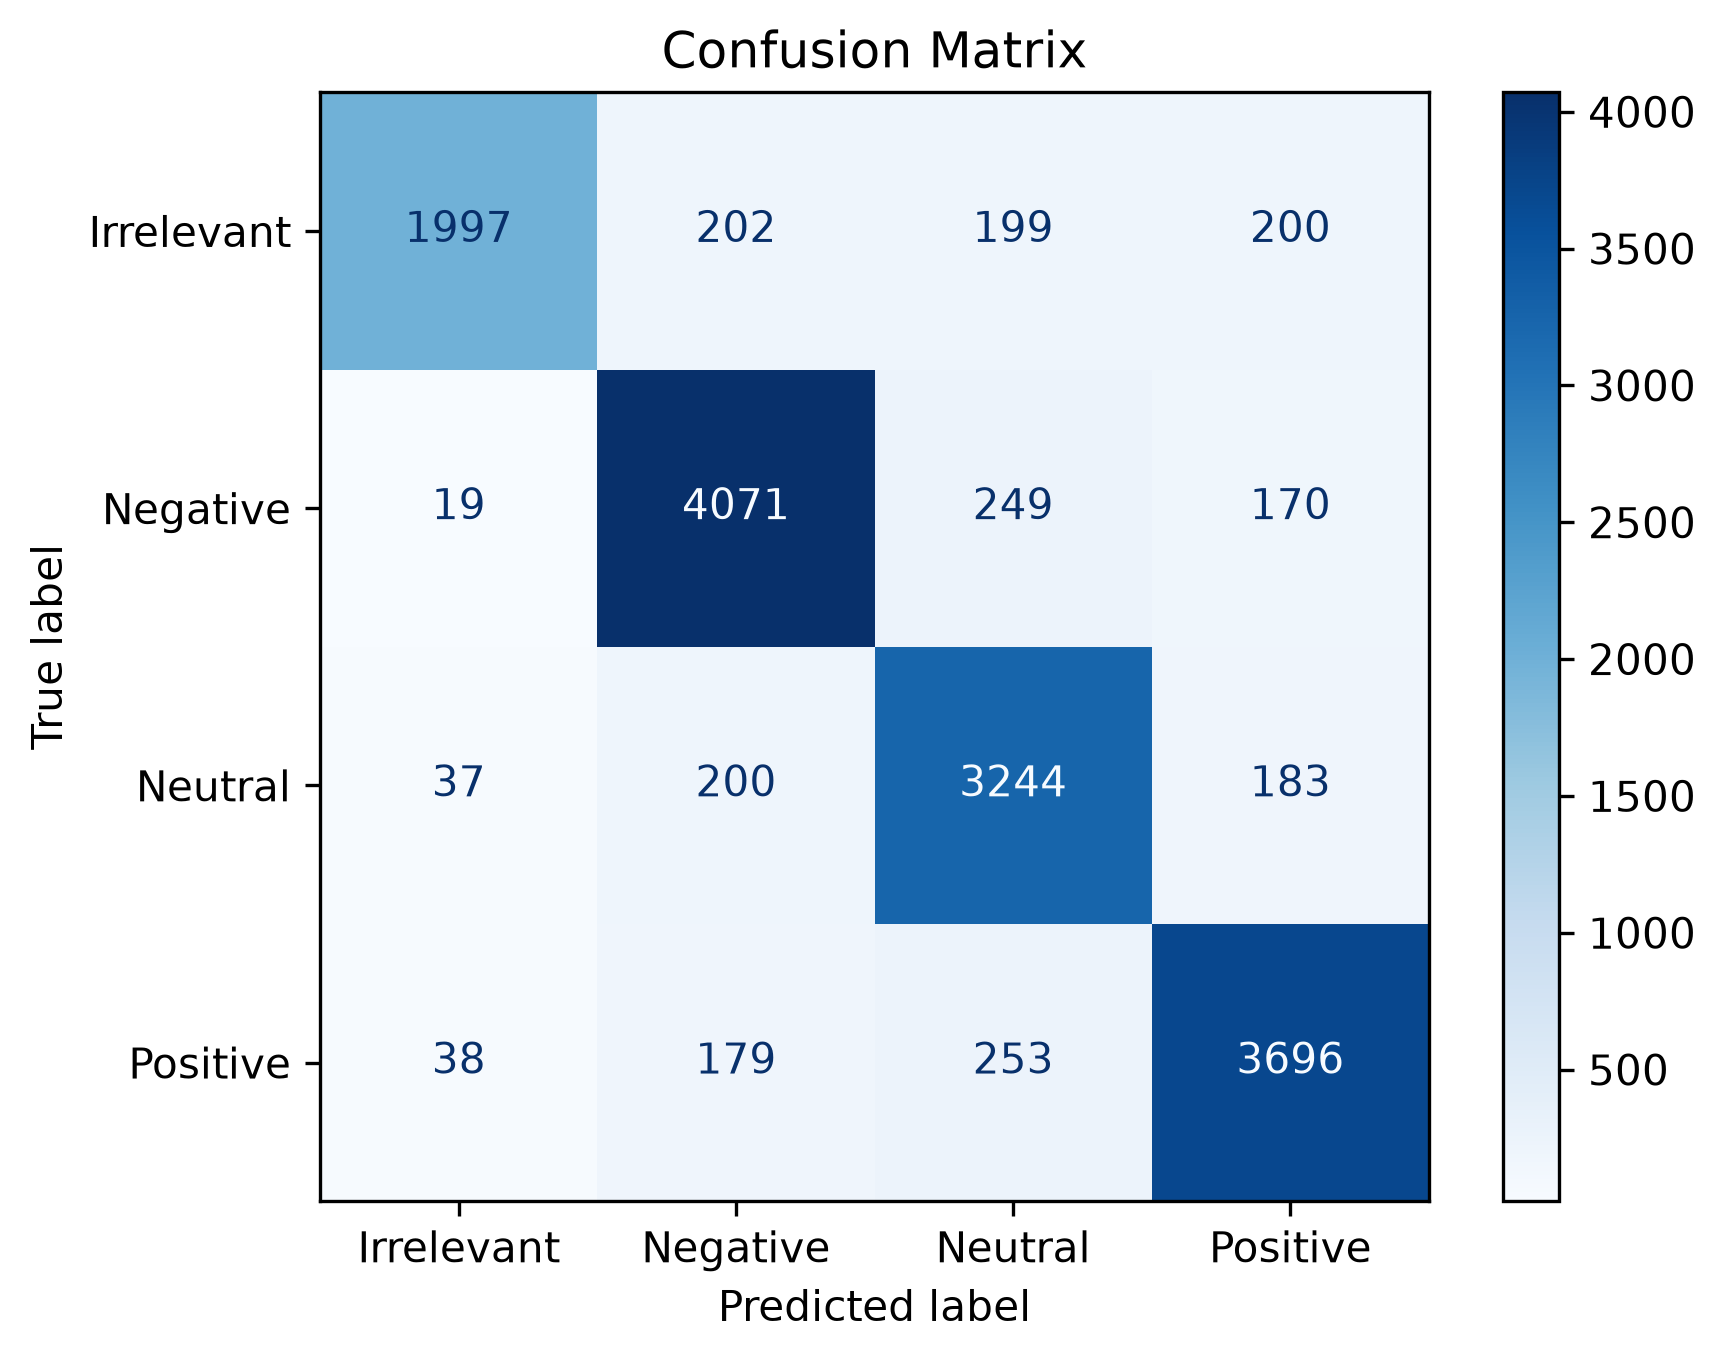
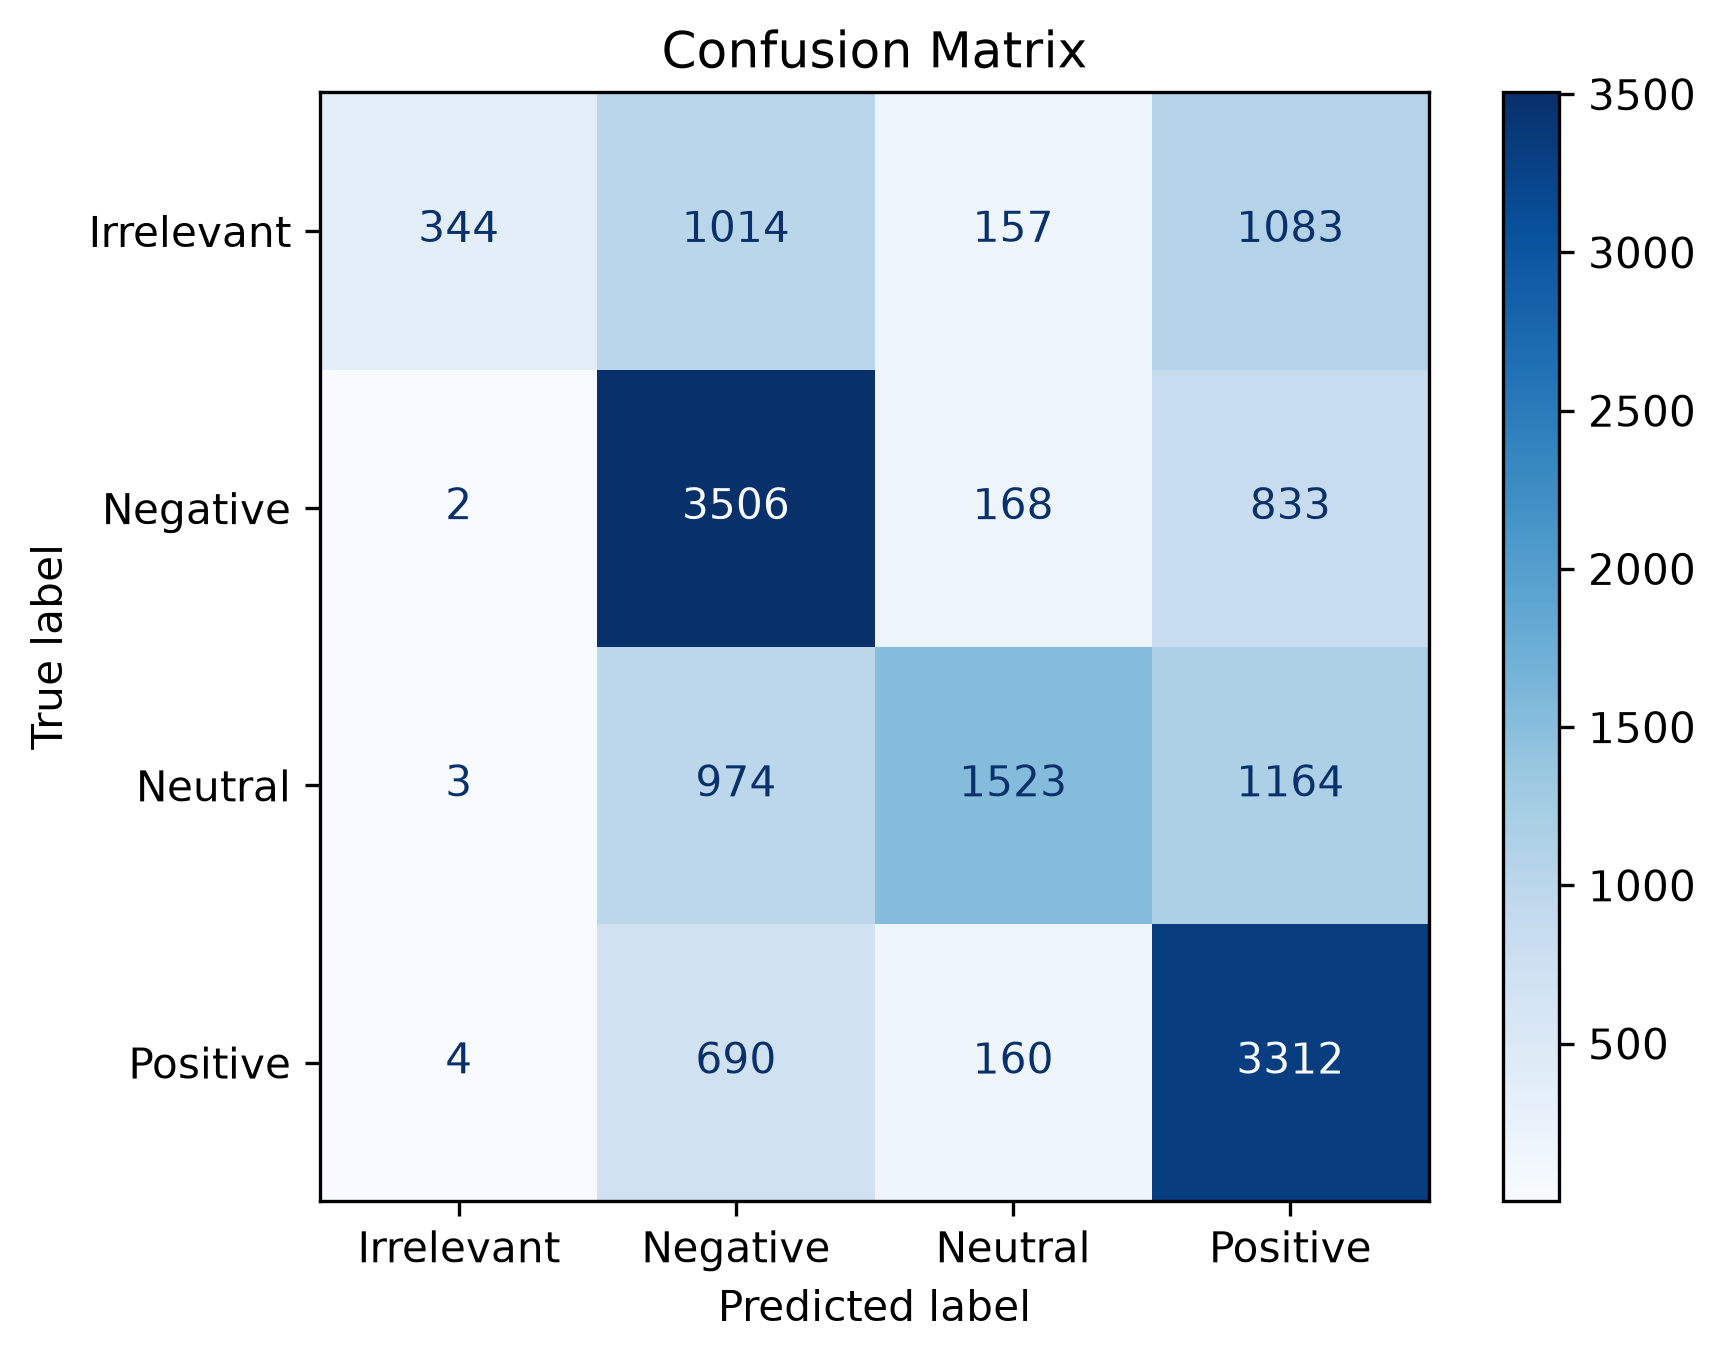
Deploy Lite Random Forest Model

diff --git a/training/sentiment_model_training_lite.py b/training/sentiment_model_training_lite.py
@@ -1,0 +1,99 @@
+# =====================
+# Imports
+# =====================
+import pandas as pd
+import re
+import pickle
+import numpy as np
+import matplotlib.pyplot as plt
+
+from sklearn.model_selection import train_test_split
+from sklearn.pipeline import Pipeline
+from sklearn.feature_extraction.text import TfidfVectorizer
+from sklearn.ensemble import RandomForestClassifier
+from sklearn.metrics import classification_report, confusion_matrix, ConfusionMatrixDisplay
+
+# =====================
+# Config
+# =====================
+DROP_IRRELEVANT = False
+LABEL_COL = "label"
+
+# =====================
+# Text cleaning
+# =====================
+def clean_text(text):
+    text = text.lower()
+    text = re.sub(r'[^\w\s]', '', text)
+    return text
+
+# =====================
+# Load dataset FIRST
+# =====================
+df = pd.read_csv(
+    r"C:\Users\mishr\OneDrive\Desktop\Finalyear\dataset\twitter_training.csv",
+    header=None,
+    names=["post_id", "topic", "label", "text"]
+)
+
+# =====================
+# Drop irrelevant (AFTER df exists)
+# =====================
+if DROP_IRRELEVANT:
+    before = len(df)
+    df = df[df[LABEL_COL] != "irrelevant"].reset_index(drop=True)
+    print(f"Dropped 'irrelevant': {before - len(df)} rows removed")
+
+# =====================
+# Prepare data
+# =====================
+X = df["text"].fillna("").apply(clean_text)
+y = df["label"]
+
+X_train, X_test, y_train, y_test = train_test_split(
+    X, y, test_size=0.2, random_state=42, stratify=y
+)
+
+# =====================
+# Model pipeline
+# =====================
+pipeline = Pipeline([
+    ("tfidf", TfidfVectorizer(max_features=3000, ngram_range=(1, 2))),
+    ("clf", RandomForestClassifier(n_estimators=30, max_depth=30, min_samples_split=5, random_state=42))
+])
+
+pipeline.fit(X_train, y_train)
+
+# =====================
+# Evaluation
+# =====================
+y_pred = pipeline.predict(X_test)
+
+report = classification_report(y_test, y_pred)
+print(report)
+
+with open(r"C:\Users\mishr\OneDrive\Desktop\Finalyear\results\classification_report.txt", "w") as f:
+    f.write(report)
+
+# =====================
+# Confusion matrix
+# =====================
+cm = confusion_matrix(y_test, y_pred, labels=np.unique(y_test))
+
+disp = ConfusionMatrixDisplay(
+    confusion_matrix=cm,
+    display_labels=np.unique(y_test)
+)
+
+disp.plot(cmap="Blues", values_format="d", colorbar=True)
+plt.title("Confusion Matrix")
+plt.savefig(r"C:\Users\mishr\OneDrive\Desktop\Finalyear\results\confusion_matrix.png", dpi=300, bbox_inches="tight")
+plt.close()
+
+# =====================
+# Save model
+# =====================
+with open(r"C:\Users\mishr\OneDrive\Desktop\Finalyear\model_outputs\SentimentAnalysisLite.pickle", "wb") as f:
+    pickle.dump(pipeline, f)
+
+print("Model trained and all outputs saved successfully.")

diff --git a/backend/api.py b/backend/api.py
@@ -26,20 +26,8 @@ def clean_text(text):
 
 # Load the trained model from your exact path
 BASE_DIR = Path(__file__).resolve().parent.parent
-MODEL_PATH = BASE_DIR / "model_outputs" / "SentimentAnalysis.pickle"
+MODEL_PATH = BASE_DIR / "model_outputs" / "SentimentAnalysisLite.pickle"
 
-import os
-import glob
-if not MODEL_PATH.exists():
-    print("Full model not found, looking for chunks...")
-    chunks = sorted(glob.glob(str(MODEL_PATH) + ".part*"))
-    if chunks:
-        print(f"Found {len(chunks)} chunks, reassembling...")
-        with open(MODEL_PATH, "wb") as outfile:
-            for chunk_path in chunks:
-                with open(chunk_path, "rb") as infile:
-                    outfile.write(infile.read())
-        print("Reassembly complete!")
 try:
     with open(MODEL_PATH, "rb") as f:
         pipeline = pickle.load(f)